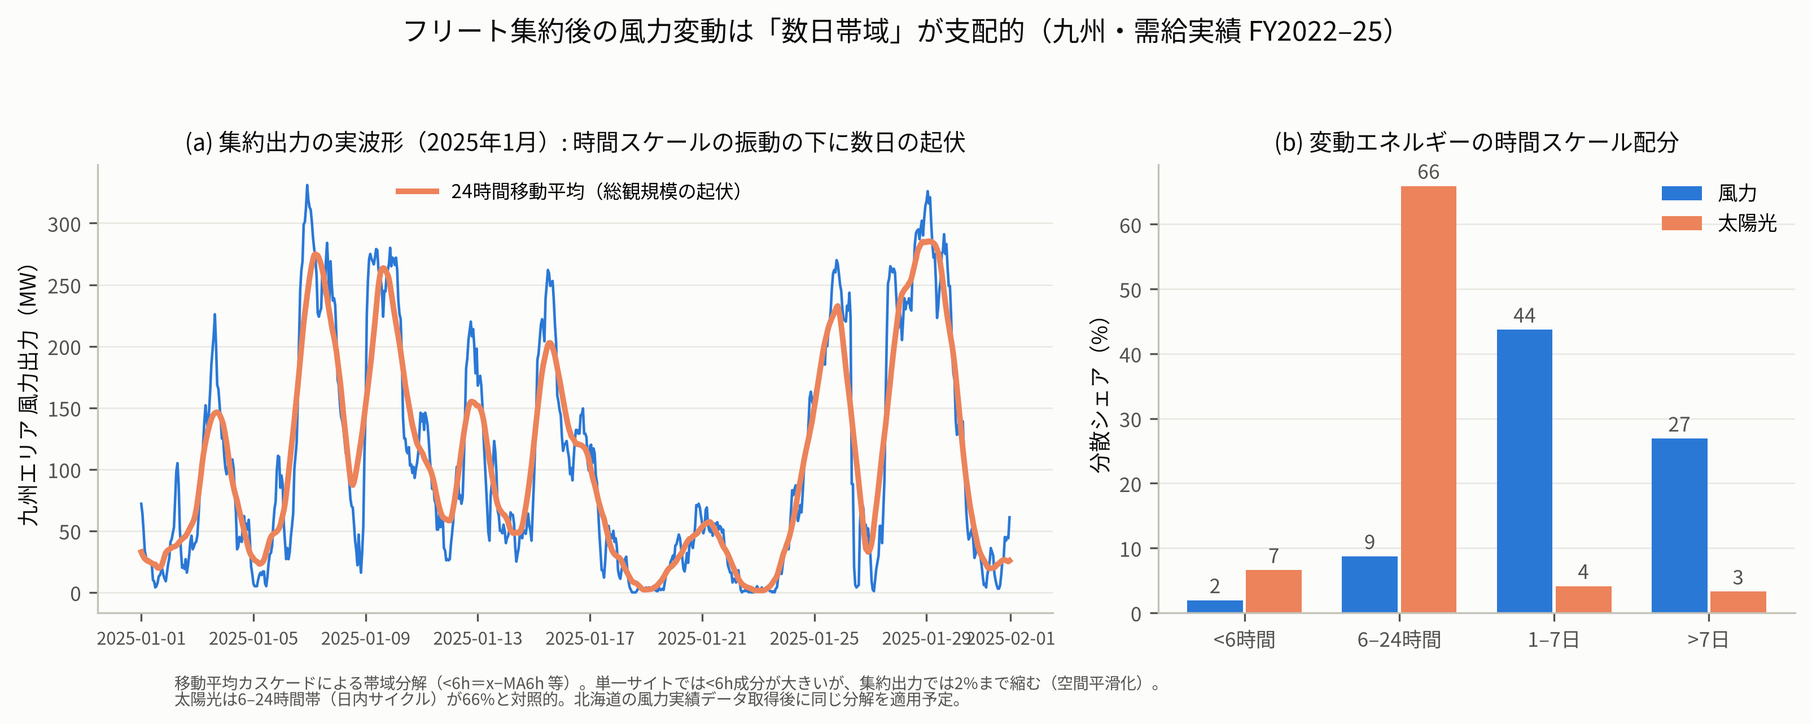
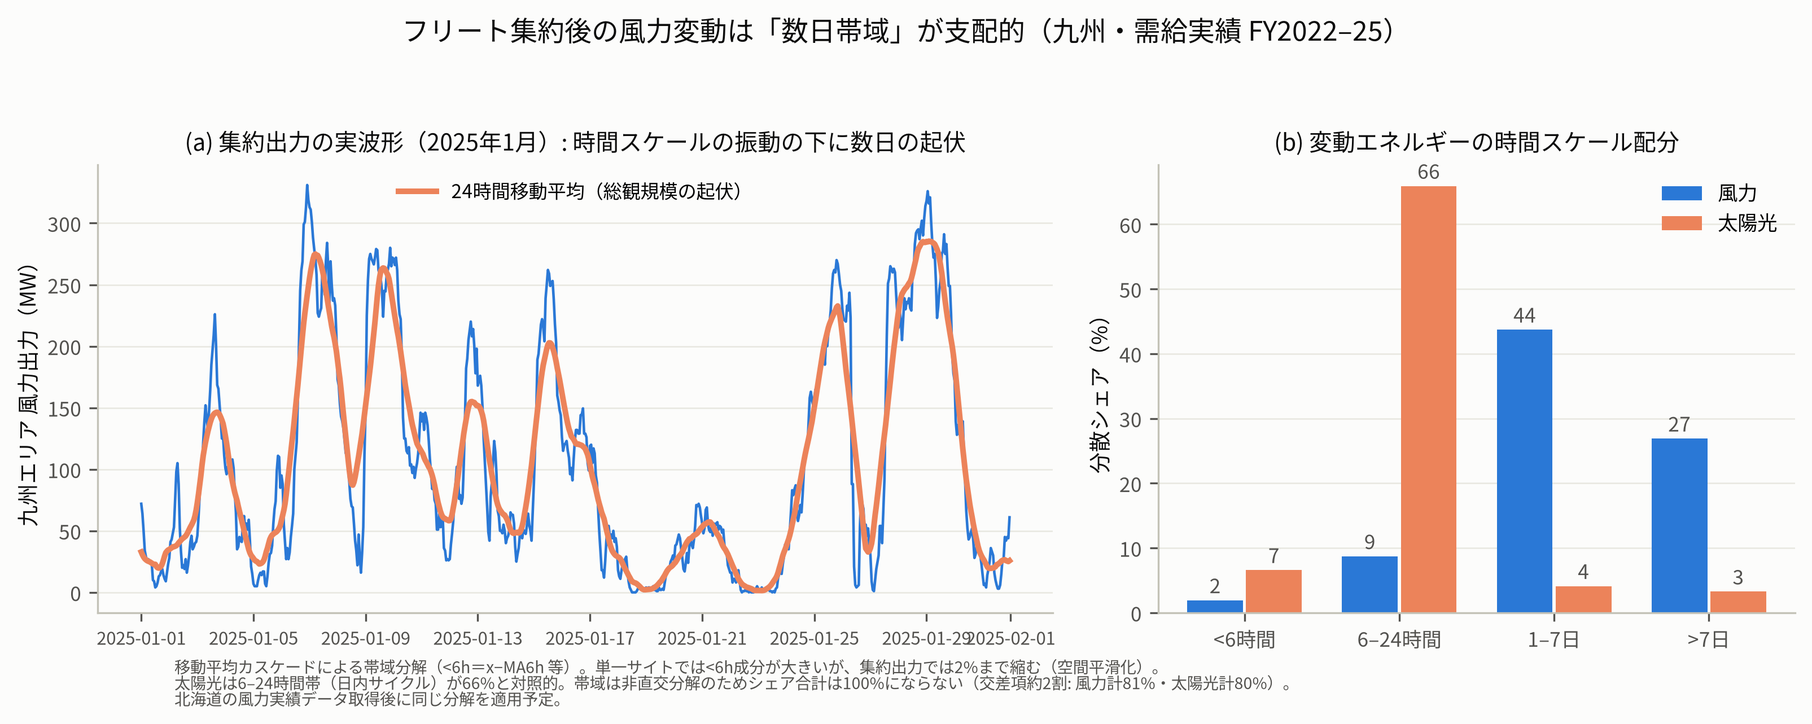
RECHECK第1ラウンド§3の引き継ぎ事項に対応（A2-A4・B5・B7-B9・C10のIV方針）
- A2: 系統WG資料001_s01_01.pdfの公表日（2025/1/23）をWeb検索で確認 —「2025年3月末」は見通し前提値と判断し、2024年9月末実績（太陽光231万kW）を research-plan・wind-evidence・notes/02 に併記（PDF内表記の最終確認はユーザー作業として残置）
- A3: research-plan本体を「風力比率全国最大」表現に修正＋容量関係の注記
- A4: research-plan §8 に撤退・代替基準（リスク#10）を追記
- B5: 08の図注に帯域分解の非直交性を明記しf15再生成
- B7: methods-data にTB4h二重定義（30分/60分）の注意を追記
- B8: 第3報H4に床約定率の粒度注記・制御率分母の注記を追加
- B9: 01のdocstring期間表記を修正（旧形式は2024/2まで採用）
- C10: research-plan リスク#2 に気象IVの排除制約・過剰識別検定の方針を追記
- RECHECK第1ラウンド§3の各項目に対応状況を記録

Claude-Session: https://claude.ai/code/session_015DKeJRddRdqiW1nBb5UmRE

Changed region(s): [[0.0935, 0.9041, 0.7165, 0.9977]]

diff --git a/thesis/analysis/08_wind_timescale.py b/thesis/analysis/08_wind_timescale.py
@@ -91,7 +91,8 @@ ax2.legend(fontsize=8.5, frameon=False)
 fig.suptitle("フリート集約後の風力変動は「数日帯域」が支配的（九州・需給実績 FY2022–25）", fontsize=11.5, color=INK)
 fig.text(0.1, 0.012,
          "移動平均カスケードによる帯域分解（<6h＝x−MA6h 等）。単一サイトでは<6h成分が大きいが、集約出力では2%まで縮む（空間平滑化）。\n"
-         "太陽光は6–24時間帯（日内サイクル）が66%と対照的。北海道の風力実績データ取得後に同じ分解を適用予定。",
+         "太陽光は6–24時間帯（日内サイクル）が66%と対照的。帯域は非直交分解のためシェア合計は100%にならない（交差項約2割: 風力計81%・太陽光計80%）。\n"
+         "北海道の風力実績データ取得後に同じ分解を適用予定。",
          fontsize=6.8, color=SUB)
 fig.tight_layout(rect=(0, 0.055, 1, 0.93))
 fig.savefig(os.path.join(FIG, "f15-wind-timescale.png"), facecolor=SURFACE, bbox_inches="tight")

diff --git a/thesis/analysis/01_build_panel.py b/thesis/analysis/01_build_panel.py
@@ -3,7 +3,7 @@
 """九州パイロット: 生データから分析用パネルを構築する
 
 入力: thesis/data/raw/jepx/spot_summary_YYYY.csv (30分48コマ, cp932)
-      thesis/data/raw/kyushu/area_jyukyu_jisseki_*.csv (60分値, 2016/4-2024/3, MWh)
+      thesis/data/raw/kyushu/area_jyukyu_jisseki_*.csv (60分値, 2016/4-2024/2採用, MWh。2024/3は新形式を正とし除外)
       thesis/data/raw/kyushu/eria_jukyu_YYYYMM_09.csv (30分値, 2024/3-, MW平均)
 出力: thesis/data/processed/jepx_kyushu_30min.csv   価格30分パネル(全期間)
       thesis/data/processed/kyushu_hourly_panel.csv 価格×需給の60分パネル(全期間)

diff --git a/thesis/research-plan.md b/thesis/research-plan.md
@@ -45,7 +45,7 @@
 
 | 要素 | 北海道の状況 |
 |---|---|
-| 再エネ急増 | 太陽光236万kW・風力136万kW（2025年3月末接続量）。太陽光は2012年度末比約23倍 |
+| 再エネ急増 | 太陽光236万kW・風力136万kW（系統WG資料の2025年3月末値。**出典001_s01_01.pdfは2025年1月23日公表のため見通し前提値とみられ、2024年9月末実績は太陽光231万kW・風力136万kW** — 原典PDFでの確定は未了、`RECHECK-20260726.md` 第1ラウンド§3-A2）。太陽光は2012年度末比約23倍 |
 | 将来の再エネ | 洋上風力: 2025年7月に松前沖・檜山沖が道内初の促進区域指定。有望区域5海域（石狩市沖114万kW等）で数百万kW級の追加見通し |
 | 出力制御 | 2022年5月8日に道内初実施（18.8万kW・1,916カ所）。以後、需給制約による制御が発生 |
 | 蓄電池集中 | 系統用蓄電池の接続申込が2022年7月末時点で既に61件・160万kW（エリア平均需要約350万kWの約5割）。北豊富240MW/720MWh（2023年3月稼働・国内最大級）、札幌50MW/100MWh（2025年11月運開）等 |
@@ -98,11 +98,11 @@
 - カニバリゼーションの実証: Lamp & Samano (2022, Energy Econ)（CAISOでスプレッド縮小）、Rangarajan et al. (2023, Energy Econ)（豪州、調整力市場費用の低下が先行）。
 - 貯蔵の長期均衡理論: Schmalensee (2022)、Junge, Mallapragada & Schmalensee (2022)（**社会最適容量＝競争均衡容量で貯蔵はゼロ超過利潤**）、Korpås & Botterud (2020) / Tarel et al. (2024)（VRE＋貯蔵のみの均衡価格形成）。
 - 市場支配力: Andrés-Cerezo & Fabra (2023, RAND)、Karaduman (2021, MIT CEEPR WP)（南豪州の動学的構造均衡: 価格インパクト無視は収益を約2倍過大評価）、Huang et al. (2021, IEEE TNSE)（Cournot貯蔵）。
-- **最重要ベンチマーク**: Butters, Dorsey & Gowrisankaran (2025, *Econometrica*)「Soaking Up the Sun」。再エネ×蓄電池の自由参入均衡をカリフォルニアで構造推定し、最初の5,000MWhは卸価格を5.6%下げるが25,000→50,000MWhでは2.6%にとどまる収益逓減、均衡では補助なしに普及が進まないことを定量化。**本研究はこの枠組みの簡略版を、市場分断・下限価格・風力主導という異なる制度環境（JEPX北海道）に適用するものと位置づけられる。**
+- **最重要ベンチマーク**: Butters, Dorsey & Gowrisankaran (2025, *Econometrica*)「Soaking Up the Sun」。再エネ×蓄電池の自由参入均衡をカリフォルニアで構造推定し、最初の5,000MWhは卸価格を5.6%下げるが25,000→50,000MWhでは2.6%にとどまる収益逓減、均衡では補助なしに普及が進まないことを定量化。**本研究はこの枠組みの簡略版を、市場分断・下限価格・全国最大の風力比率という異なる制度環境（JEPX北海道）に適用するものと位置づけられる。**
 
 ### 3.4 研究ギャップ（本研究の新規性）
 
-1. 日本のエリア別実証は九州（太陽光）に偏り、**風力主導で蓄電池が集中する北海道**の価格・ボラティリティ分析はほぼ空白。
+1. 日本のエリア別実証は九州（太陽光）に偏り、**風力比率が全国最大（洋上拡大により風力主導化が進む）で蓄電池が集中する北海道**の価格・ボラティリティ分析はほぼ空白。（注: 設備容量では太陽光236万kW＞風力136万kWであり「風力主導」は比率・将来方向の表現として用いる）
 2. 「再エネによるボラ増」と「蓄電池によるボラ減」を**同一均衡モデル内で扱い、日本のデータで均衡普及量を推定した研究は見当たらない**（国内学会誌・CiNii・J-STAGEでの体系的確認は着手時に実施）。
 3. JEPX特有の**下限価格0.01円/kWh（マイナス価格なし）**の下でのボラティリティ・スパイクのモデリング自体に方法論的新規性がある（打ち切り分布・Tobit型の扱い）。
 4. 均衡分析の対象として**市場分断エリア**（連系線容量が状態変数になる）を扱う点も、単一市場を仮定する米欧研究との差分。
@@ -241,7 +241,7 @@ $$\pi(K^*; R) \equiv \frac{\partial \Pi(K; R)}{\partial K}\bigg|_{K=K^*} = AFC \
 | # | リスク | 影響 | 対応 |
 |---|---|---|---|
 | 1 | 入札カーブの数値データが取得できない | 供給曲線推定の精度低下 | 価格×残余需要からの誘導的推定を主線に設計（4.2節）。画像数値化・JEPXへの提供依頼は上乗せ |
-| 2 | 再エネ出力の内生性（需要・燃料価格との交絡） | ボラ生成関数のバイアス | 気象操作変数、燃料価格・需要統制、分位点回帰の頑健性 |
+| 2 | 再エネ出力の内生性（需要・燃料価格との交絡） | ボラ生成関数のバイアス | 気象操作変数、燃料価格・需要統制、分位点回帰の頑健性。IVの排除制約（気象→需要の直接経路）は気温・日照の需要側統制で遮断し、複数IV（風速×日射）による過剰識別検定で検証 |
 | 3 | 均衡計算の計算負荷 | 第3段階の遅延 | 価格テイカーDP＋不動点の簡略構造、代表日サンプリング、MPEC回避（4.4節） |
 | 4 | 蓄電池フリートの異質性（北豊富は風力併設・変動緩和用でJEPX裁定運用でない可能性） | 「蓄電池=裁定プレイヤー」仮定の過大評価 | フリートを併設型／裁定型に区分。イベントスタディの処置定義は裁定型（例: 札幌50MW）で行う |
 | 5 | 需給調整市場・容量市場収益の捨象 | 均衡容量の過小推定 | 主分析は「スポット裁定のみ＝下限推定」と明示し、EPRX約定データで収益上乗せの感応度分析 |
@@ -249,12 +249,13 @@ $$\pi(K^*; R) \equiv \frac{\partial \Pi(K; R)}{\partial K}\bigg|_{K=K^*} = AFC \
 | 7 | 北海道電力NW需給実績の掲載期間（過去5カ年ローリングの可能性） | 過去データの喪失 | **着手初週に全量アーカイブ** |
 | 8 | 下限0.01円による価格分布の打ち切り | 標準的ボラ推定の歪み | 水準ベース指標＋Tobit/打ち切り対応。下限張り付き率を独立の指標として扱う |
 | 9 | 出力制御実績の日数不足（2024年度実施分の検証対象は2日間） | 制御を組み込んだ実証の困難 | 出力制御は実証の主対象とせず、構造モデルの制約条件・見通し資料ベースのシナリオとして扱う |
+| 10 | 第一弾実証（風力×エリアプライスの分位点回帰）で有意な効果が検出されない | 転換ロジックの前提が崩れる | **撤退・代替基準を事前に明示**: (i) 検出力の事後評価（設備の伸びに対する期間の短さが原因か切り分け）、(ii) 東北（風力2位・連系線相対的太い）との比較設計に切替え、(iii) 北海道の太陽光を含む「変動再エネ全体×蓄電池」への問いの拡張。いずれもデータ・パイプラインは共通で手戻りなし |
 
 ---
 
 ## 9. 期待される貢献
 
-- **学術**: (1) 日本の卸電力市場を対象とした初の「再エネ×蓄電池の均衡普及量」推定。(2) 下限価格制約・市場分断という米欧と異なる制度環境での貯蔵均衡モデルの適用可能性の検証。(3) 風力主導エリアのボラティリティ生成関数という日本では手薄な実証。
+- **学術**: (1) 日本の卸電力市場を対象とした初の「再エネ×蓄電池の均衡普及量」推定。(2) 下限価格制約・市場分断という米欧と異なる制度環境での貯蔵均衡モデルの適用可能性の検証。(3) 風力比率全国最大エリアのボラティリティ生成関数という日本では手薄な実証。
 - **実務**: 北海道に殺到する蓄電池投資（申込1.6GW超）に対する、カニバリゼーションを織り込んだ収益・適正容量の定量的目安。「均衡スプレッド≒蓄電池固定費」というプライシングの視点。
 - **政策**: 蓄電池導入目標・補助設計（長期脱炭素オークションの規模）・接続許容量の議論、および連系線増強（新々北本・日本海HVDC）と域内蓄電池の代替性評価への定量的インプット。
 

diff --git a/thesis/RECHECK-20260726.md b/thesis/RECHECK-20260726.md
@@ -44,20 +44,28 @@
 
 1. **帯域分解とRQの緊張関係**（審査レビュー指摘2、最重要）: 「風力分散の44%が数日帯域なら、4h電池の日内裁定への風力寄与はむしろ小さいのでは」— これは弱点ではなく**研究の問いそのもの**（どのdurationがどの帯域を刈り取るか）として一貫して言い切ること。P14のトークは修正済みだが、発表練習で問答を準備
 2. **風力136万kWの時点の一次確認**: 同一METI資料を「2024年9月末」と「2025年3月末」で引用する文書が混在（research-plan L48 vs notes/11等）。**原典PDF（smart_power_grid_wg 001_s01_01.pdf）で時点を確定**し統一（ユーザーの手動確認が確実）
+   → **一部前進（マージ後）**: 原典PDFは本環境から到達不可（プロキシ制約）だが、**同PDFの公表日は2025年1月23日**（Web検索で確認）であり「2025年3月末」は実績ではなく**見通し前提値**と判断できる。2024年9月末実績（太陽光231万kW・風力136万kW — notes/06・北海道庁資料が一致）を research-plan・wind-led-storage-evidence に併記済み。残るユーザー作業はPDF内の表記確認のみ
 3. **「風力主導の北海道」の言い回し**: 設備は太陽光236万kW＞風力136万kW。「風力比率が全国最大で、洋上により風力主導化する」が正確（一部文書は修正済み、research-plan本体は未修正）
+   → **対応済み（マージ後）**: research-plan本体（§3.3ベンチマーク・§3.4ギャップ・§9貢献）を「風力比率全国最大」表現に修正し、§3.4に容量関係の注記を追加
 4. **転換の撤退基準の明示**（審査レビュー指摘8）: 北海道第一弾実証（風力×価格の分位点回帰）が不発だった場合の代替（東北比較・太陽光含む北海道分析等）を研究計画に追記推奨
+   → **対応済み（マージ後）**: research-plan §8 リスク表に #10（検出されない場合の撤退・代替基準: 検出力の事後評価／東北比較設計／変動再エネ全体への拡張）を追記
 
 ### B. コード品質（数値への影響は軽微、順次対応）
 
 5. **08の帯域分解**: 非直交でシェア合計が風力81%・太陽光80%。f15の図注に明記済み方針 → 図の脚注文言を実際に更新、または合計正規化・スペクトル分解への変更を検討
+   → **図注は更新済み（マージ後）**: 08の脚注に非直交性（交差項約2割: 風力計81%・太陽光計80%）を明記しf15を再生成。合計正規化・スペクトル分解への変更は引き続き検討事項
 6. **03の捕捉率分母**: 戦略bのウォームアップ期間（FY2016の30日）を分母pfが含む → 共通日集合で再計算（FY2016のb捕捉率41→43%程度、結論不変）
 7. **TB4hの二重定義**: 30分ベース（01/06、10.81円）と60分ベース（03/07、10.63円）が同名 → 「TB4h(30分)/(60分)」に名称分離
+   → **注記で対応（マージ後）**: methods-data の定義表に2定義併存の注意（数値例つき）を追記。スクリプト・列名の分離は未実施
 8. **06の制御率の分母**に風力発電量が未算入（影響軽微）／床約定率は60分判定でコマ単位よりやや過小（粒度注記を第3報に追加）
+   → **粒度注記は追加済み（マージ後）**: 第3報H4表の直下に60分判定・制御率分母の注記を追加。06の分母修正自体は未実施（影響軽微）
 9. 01のdocstring期間表記（2024/3→実際は2024/2まで）と04のコンソール表示丸め（表示のみ）
+   → **docstringは修正済み（マージ後）**。04の表示丸めは未対応（出力数値には無関係）
 
 ### C. 一次資料確認（既存リストと重複含む）
 
 10. 出力制御の内訳（需給バランス vs ローカル系統）／需要増の半導体帰属／蓄電池資本費の公式系列／気象IVの排除制約の設計（審査レビュー指摘12: 統制変数と過剰識別検定の方針を研究計画に追記）
+   → **IV設計方針は追記済み（マージ後）**: research-plan §8リスク表#2に排除制約の遮断方法と過剰識別検定を明記。一次資料確認3件は残タスク
 
 ## 4. 審査レビューの指摘全文・数値整合の詳細
 

diff --git a/thesis/notes/02-hokkaido-grid.md b/thesis/notes/02-hokkaido-grid.md
@@ -8,7 +8,7 @@
 （1）研究対象としての妥当性: 北海道は「再エネ急増（太陽光236万kW・風力136万kW、洋上風力で今後数百万kW級の追加見通し）」「出力制御の開始（2022年5月～）」「系統用蓄電池の大量導入（南早来51MWh、北豊富720MWh、接続申込160万kW超）」「連系線制約（北本90万kW、分断率8.5%）」が同時進行する日本で唯一のエリアであり、再エネ由来ボラティリティと蓄電池によるボラティリティ低減の均衡点を分析する対象として最適である。先行研究（Frontiers 2021等）でも北海道のみ他エリアと独立した価格動態を持つことが示されており、北海道エリアプライスを単一市場として扱うモデル化が正当化できる。（2）モデル設計への示唆: 冬季ピーク型需要（厳寒H1想定567万kW）と春秋の軽負荷期（平均需要約350万kW）の季節性、北本連系線120万kW化（2027年度末）による分断緩和、泊3号機再稼働（2027年目標、91.2万kWのベースロード復帰）、ラピダス・DCによる需要急増（2030年代半ば693万kW試算）は、いずれも均衡点を大きく動かす構造変化であり、シナリオ分析の軸として組み込むべきである。（3）データ入手可能性: JEPXエリアプライス30分値、北海道電力NWの需給実績（太陽光・風力実績含む30分値）、OCCTO需要想定・出力制御検証資料が公開されており、ボラティリティ推定（GARCH等）とメリットオーダー効果の実証、蓄電池アービトラージの収益関数の構築に必要なデータは揃う。（4）留意点: 年間需要量の正確な値、出力制御率%の見通し値、北海道の0.01円コマ数統計は今回のWeb検索では数値を直接確認できなかったため、HEPCO需給実績CSV・METI次世代電力系統WG資料PDF・JEPX約定データから直接取得する必要がある。また蓄電池のボラティリティ低減効果は、北海道では系統用蓄電池が「調整力・出力変動緩和」目的（北豊富等）と「市場アービトラージ」目的（近年の接続申込急増分）で性格が異なる点をモデル上区別することが望ましい。
 
 ## sources
-- 北海道電力ネットワーク「2025年度出力制御見通しについて」（2025年1月23日、経産省 次世代電力系統WG参考資料1-1） | https://www.meti.go.jp/shingikai/enecho/denryoku_gas/saisei_kano/smart_power_grid_wg/pdf/001_s01_01.pdf | 太陽光236万kW・風力136万kW（2025年3月末接続量）、30日等出力制御枠（太陽光117万kW・風力36万kW）
+- 北海道電力ネットワーク「2025年度出力制御見通しについて」（2025年1月23日、経産省 次世代電力系統WG参考資料1-1） | https://www.meti.go.jp/shingikai/enecho/denryoku_gas/saisei_kano/smart_power_grid_wg/pdf/001_s01_01.pdf | 太陽光236万kW・風力136万kW（2025年3月末接続量 — 公表日2025/1/23につき見通し前提値とみられる。2024年9月末実績は太陽光231万kW・風力136万kW＝notes/06・北海道庁資料。原典確認はRECHECK第1ラウンド§3-A2）、30日等出力制御枠（太陽光117万kW・風力36万kW）
 - 北海道電力ネットワーク「2026年度出力制御見通しについて」（2025年12月24日） | https://www.meti.go.jp/shingikai/enecho/denryoku_gas/saisei_kano/smart_power_grid_wg/pdf/006_s01_01.pdf | 最新の出力制御見通し。制御率%の具体値はPDF本体の直接参照が必要（プロキシ制限で本文未取得）
 - 北海道電力ネットワーク「2023年度冬季の電力需給見通しについて」 | https://www.hepco.co.jp/network/info/2023/1252263_1968.html | 1月最大電力562万kW・供給力591万kW・予備率5.2%、厳寒H1想定567万kW
 - 北海道エリアの需給実績（ほくでんネットワーク） | https://www.hepco.co.jp/network/con_service/public_document/supply_demand_results/index.html | エリア需要・太陽光/風力発電実績の30分値データ（論文の実証分析用データソース）

diff --git a/thesis/kyushu-methods-data.md b/thesis/kyushu-methods-data.md
@@ -40,7 +40,7 @@ raw/kyushu/eria_jukyu_*.csv ─────┘──→ processed/kyushu_daily_m
 |---|---|---|
 | f1 ダックカーブ | JEPX30分 | 年度×時刻（30分）ごとの単純平均。FY2016/19/23/25の4年度を表示（FY2022は燃料危機のため除外） |
 | f2 張り付きコマ | JEPX30分 | 九州エリアプライス ≤ 0.011円/kWh のコマ数を年度合計 |
-| f3 TB4hスプレッド | 日次指標 | **TB4h＝各日48コマの上位8コマ平均 − 下位8コマ平均**（円/kWh）。年度別の中央値と四分位範囲 |
+| f3 TB4hスプレッド | 日次指標 | **TB4h＝各日48コマの上位8コマ平均 − 下位8コマ平均**（円/kWh）。年度別の中央値と四分位範囲。**注意: TB4hには2定義が併存** — 30分ベース（01/06、例: FY2024中央値10.81円）と60分ベース（03/07の「上位4時間−下位4時間」、同10.63円）。各文書の数値は出典スクリプトの定義に従う |
 | f4 太陽光×張り付き | JEPX30分＋需給 | 横軸=太陽光実績の年度最大値（導入量代理）、縦軸=昼間（10-14時）コマの張り付き率 |
 | f5 制御日比較 | JEPX30分＋需給 | **制御日＝太陽光・風力抑制量の日合計が正の日**。FY2023-25をプールし時刻別平均を制御日/非制御日で比較 |
 | f6 分位点 | JEPX30分 | 年度内の全コマ価格の5/25/50/75/95%分位 |

diff --git a/thesis/kyushu-factor-decomposition.md b/thesis/kyushu-factor-decomposition.md
@@ -27,6 +27,8 @@
 
 「制御日数157日（FY2025）」は事実だが、量ではFY2023が突出。さらに床約定率の低下により、制御→0.01円の伝達自体が弱まっている。
 
+（粒度注記: 本表は60分パネルでの判定（時間平均価格≤0.01円）。30分コマ単位の判定より床約定率はやや過小になるが、年度間の低下トレンド（74→51→40%）は粒度によらず頑健。制御率の分母は太陽光発電量ベースで風力分は未算入 — 九州では風力制御量が小さく影響軽微）
+
 ### H2: スプレッドの分解（図f12）
 
 Bottom4h中央値: FY2022-23の3.2円 → FY2024: 6.65円 → FY2025: 6.88円。Top4h中央値: 14.2 → 15.8 → 14.0円。**縮小はもっぱら底側**。「ダックカーブが深まっている」という平均カーブの印象（図f1）と矛盾しない — 平均カーブは張り付き日に引っ張られるが、**日次分布の中央値でみた典型日の底は上がっている**（昼間平均価格も FY2023: 4.68円 → FY2025: 6.01円 に上昇）。

diff --git a/thesis/wind-led-storage-evidence.md b/thesis/wind-led-storage-evidence.md
@@ -39,7 +39,7 @@
 
 | エリア | 風力接続量（時点） | 最大需要※1 | **風力/最大需要** | 太陽光接続量 | VREに占める風力比率 |
 |---|---|---|---|---|---|
-| **北海道** | **136万kW**（2024年9月末） | 422万kW | **約32%** | 236万kW（2025年3月末） | **37%** |
+| **北海道** | **136万kW**（2024年9月末） | 422万kW | **約32%** | 236万kW（2025年3月末・見通し前提値か。2024年9月末実績は231万kW） | **37%** |
 | 東北 | 241.5万kW（2025年9月末） | 1,296万kW | 約19% | 779.7万kW | 24% |
 | 四国 | 28万kW（2021年12月末・古い） | 464万kW | 約6% | 309万kW | 8% |
 | 中国 | 34万kW（2025年9月末） | 1,002万kW | 約3.4% | 738万kW | 4.4% |
